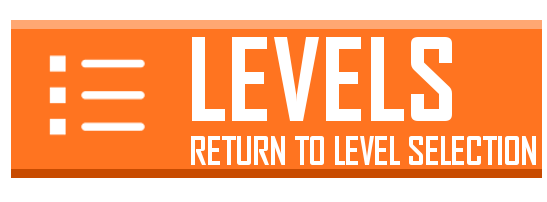
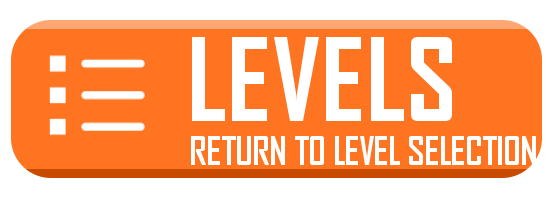
update buttons, bug fixes/tweaks

diff --git a/static/js/central_dogma_api.js b/static/js/central_dogma_api.js
@@ -5,10 +5,12 @@
     // **********************************************************************
     var cdapi = { };
     cdapi.version = '1.0.0';
+    const NO_BACKEND = true;
     const BASE_URL = 'http://localhost:5000';
     //const BASE_URL = '/api';
     let loggedIn = false;
     let currentSession = null;
+    var globalObject = null;
 
     /* Get the session id */
     function get(name) {
@@ -196,6 +198,103 @@
     cdapi.setCurrentSession = function (sess) {
         currentSession = sess;
     }
+
+    // ***************************************************************************************
+    // Josh's new functions
+    // ***************************************************************************************
+    cdapi.signin = async (username, sessionID) => {
+        if (NO_BACKEND) {
+            console.log('no backend -> dummy signin');
+            return new Promise(function(resolve, reject) {
+                loggedIn = true;
+                resolve(true);
+            });
+        }
+        return await postJSON(BASE_URL + "/user/signin",
+                              {"username": username, "session_id": sessionID}).then(data => {
+                                  if (data.status == "ok") {
+                                      window.localStorage.setItem("loginToken", data.access_token);
+                                      loggedIn = true;
+                                  }
+                                  return data;
+                              });
+    };
+    cdapi.signout = function(username, sessionID) {
+        return new Promise(function(resolve, reject) {
+            loggedIn = false;
+            resolve(true);
+        });
+    };
+    cdapi.isUserSignedIn = function(username, sessionID) {
+        return new Promise(function(resolve, reject) {
+            resolve(loggedIn);
+        });
+    };
+    /* Stores a new global object (see above) for the user. */
+    cdapi.storeNewGlobalVariable = async (userName, sessionID, global) => {
+        if (NO_BACKEND) {
+            console.log('no backend -> dummy store');
+            return new Promise(function(resolve, reject) {
+                globalObject = global;
+                resolve(true);
+            });
+        }
+        return await postJSONAuth(BASE_URL + "/user/storevar",
+                                  {"session_id": sessionID,
+                                   "global": global}).then(data => {
+                                      if (data.status == "ok") {
+                                          console.log('stored variable');
+                                      }
+                                  });
+    };
+
+    // returns object which is their stored global object
+    cdapi.getGlobalVariable = async (username, sessionid) => {
+        if (NO_BACKEND) {
+            console.log('no backend -> dummy retrieve');
+            return new Promise(function(resolve, reject) {
+                resolve(globalObject);
+            });
+        }
+        // TODO: backend connection
+    };
+
+    /* Gets a leaderboard based on given parameter for a session. */
+    cdapi.getTotalLeaderboard = async (sessionID, orderBy, numRows) => {
+        if (NO_BACKEND) {
+            console.log('no backend -> dummy leader board');
+            return new Promise(function(resolve, reject) {
+                var result = [ { userName: 'user1', value: 12345 }, { userName: 'user1', value: 12345 }, { userName: 'user1', value: 12345 }, { userName: 'user1', value: 12345 }, { userName: 'user1', value: 12345 }, { userName: 'user1', value: 12345 }, { userName: 'user1', value: 12345 }, { userName: 'user1', value: 12345 }, { userName: 'user1', value: 12345 }, { userName: 'user1', value: 12345 }, { userName: 'user1', value: 12345 }, { userName: 'user1', value: 12345 }, { userName: 'user1', value: 12345 }, { userName: 'user1', value: 12345 }, { userName: 'user1', value: 12345 }, { userName: 'user1', value: 12345 }, { userName: 'user1', value: 12345 }, { userName: 'user1', value: 12345 }, { userName: 'user1', value: 12345 }, { userName: 'user1', value: 12345 }, { userName: 'user1', value: 12345 }, { userName: 'user1', value: 12345 }, { userName: 'user1', value: 12345 }, { userName: 'user1', value: 12345 }, { userName: 'user1', value: 12345 }, { userName: 'user1', value: 12345 }, { userName: 'user1', value: 12345 }, { userName: 'user1', value: 12345 }, { userName: 'user1', value: 12345 }, { userName: 'user1', value: 12345 }, { userName: 'user1', value: 12345 }, { userName: 'user1', value: 12345 }, { userName: 'user1', value: 12345 }, { userName: 'user1', value: 12345 }, { userName: 'user1', value: 12345 }, { userName: 'user1', value: 12345 }, { userName: 'user1', value: 12345 }, { userName: 'user1', value: 12345 }, { userName: 'user1', value: 12345 }, { userName: 'user1', value: 12345 }, { userName: 'user1', value: 12345 }, { userName: 'user1', value: 12345 }, { userName: 'user1', value: 12345 }, { userName: 'user1', value: 12345 }, { userName: 'user1', value: 12345 }, { userName: 'user1', value: 12345 }, { userName: 'user1', value: 12345 }, { userName: 'user1', value: 12345 }, { userName: 'user1', value: 12345 }, { userName: 'user1', value: 12345 }, { userName: 'user1', value: 12345 }, { userName: 'user1', value: 12345 }, { userName: 'user1', value: 12345 }, { userName: 'user1', value: 12345 }, { userName: 'user1', value: 12345 }, { userName: 'user1', value: 12345 }, { userName: 'user1', value: 12345 }, { userName: 'user1', value: 12345 }, { userName: 'user1', value: 12345 }, { userName: 'user1', value: 12345 }, { userName: 'user1', value: 12345 }, { userName: 'user1', value: 12345 }, { userName: 'user1', value: 12345 }, { userName: 'user1', value: 12345 }, { userName: 'user1', value: 12345 }, { userName: 'user1', value: 12345 }, { userName: 'user1', value: 12345 }, { userName: 'user1', value: 12345 }, { userName: 'user1', value: 12345 }, { userName: 'user1', value: 12345 }, { userName: 'user1', value: 12345 }, { userName: 'user1', value: 12345 }, { userName: 'user1', value: 12345 }, { userName: 'user1', value: 12345 }, { userName: 'user1', value: 12345 }, { userName: 'user1', value: 12345 }, { userName: 'user1', value: 12345 }, { userName: 'user1', value: 12345 }, { userName: 'user1', value: 12345 }, { userName: 'user1', value: 12345 } ];
+                resolve(result);
+            });
+        }
+        return await postJSON(BASE_URL + "/total_leaderboard",
+                              {"session_id": sessionID, "orderby": orderBy,
+                               "numrows": numRows}).then(data => {
+                                  if (data.status == "ok") {
+                                  }
+                                  return data;
+                              });
+    };
+
+    /* Gets a leaderboard of scores for a level in a session. */
+    cdapi.getLevelLeaderboard = async (sessionID, level, numRows) => {
+        if (NO_BACKEND) {
+            console.log('no backend -> dummy level leader board');
+            return new Promise(function(resolve, reject) {
+                var result = [ { userName: 'user1', value: 12345 } ];
+                resolve(result);
+            });
+        }
+        return await postJSON(BASE_URL + "/level_leaderboard",
+                              {"session_id": sessionID, "level": level,
+                               "numrows": numRows}).then(data => {
+                                  if (data.status == "ok") {
+                                  }
+                                  return data;
+                              });
+    };
+
     // These lines needed to support a NPM/ES6 environment, the define() call
     // is to support RequireJS
     glob.cdapi = cdapi;

diff --git a/static/js/modules/scene/loginscreen.js b/static/js/modules/scene/loginscreen.js
@@ -24,7 +24,7 @@ class LoginScreen extends Phaser.Scene {
 
         // Background Color
         this.graphics = this.game.add.graphics();
-        this.graphics.fillStyle(0x1e1e1e, 1.0);
+        this.graphics.fillStyle(0xFFFFFF, 1.0);
         this.graphics.fillRect(0, 0, 360, 740);
 
     }
@@ -136,16 +136,6 @@ class LoginScreen extends Phaser.Scene {
 
             } else if (event.target.id == "login-button") {
                 event.preventDefault();
-                
-                // builds the username and lowercases it
-                let username = this.domOverlay.getChildByID("adjective-selector").value + "-" +
-                               this.domOverlay.getChildByID("color-selector").value + "-" +
-                               this.domOverlay.getChildByID("animal-selector").value + "-" +
-                               this.domOverlay.getChildByID("state-selector").value + "-" +
-                               this.domOverlay.getChildByID("grade-selector").value.replace("-", "_") +  "-" +
-                               this.domOverlay.getChildByID("gender-selector").value.replace(new RegExp(" ", 'g'), "_").replace("-", "_") + "-" +
-                               this.domOverlay.getChildByID("login-sessionName").value;
-                username = username.toLowerCase();
 
                 // just builds the animal name
                 let animalname = this.capitalizeFirstLetter(this.domOverlay.getChildByID("adjective-selector").value) + " " +
@@ -155,10 +145,33 @@ class LoginScreen extends Phaser.Scene {
                 // retrieves session name
                 let session = this.domOverlay.getChildByID("login-sessionName").value.replace(" ", "_");
 
+                // check if session is unset, and if so, set it to a default value (date + "No_Session_ID")
+                if (session == "") {
+                    let defaultSession = "no_session_id";
+
+                    let today = new Date();
+                    let dd = String(today.getDate()).padStart(2, '0');
+                    let mm = String(today.getMonth() + 1).padStart(2, '0'); //January is 0!
+                    let yyyy = today.getFullYear();
+
+                    today = mm + '_' + dd + '_' + yyyy;
+                    session = today + "_" + defaultSession;
+                    console.log(session);
+                }
+
+                // builds the username and lowercases it
+                let username = this.domOverlay.getChildByID("adjective-selector").value + "-" +
+                this.domOverlay.getChildByID("color-selector").value + "-" +
+                this.domOverlay.getChildByID("animal-selector").value + "-" +
+                this.domOverlay.getChildByID("state-selector").value + "-" +
+                this.domOverlay.getChildByID("grade-selector").value.replace("-", "_") +  "-" +
+                this.domOverlay.getChildByID("gender-selector").value.replace(new RegExp(" ", 'g'), "_").replace("-", "_") + "-" + session;
+                username = username.toLowerCase();                
+
                 // if any are invalid, tell the user
                 if (!username || !session || this.domOverlay.getChildByID("adjective-selector").value == "" ||
                     this.domOverlay.getChildByID("color-selector").value == "" || this.domOverlay.getChildByID("animal-selector").value == "") {
-                    this.domOverlay.getChildByID("login-feedback").textContent = "Please specify a valid username and session.";
+                    this.domOverlay.getChildByID("login-feedback").textContent = "Please specify a valid username.";
                     return;
                 }
 
@@ -265,7 +278,7 @@ class LoginScreen extends Phaser.Scene {
             let screenWidth = 360; // width of box to randomly spawn floaties
             let screenHeight = 720; // height of box to randomly spawn floaties
 
-            let myFloaty = this.floaty.create(screenWidth * Math.random(), screenHeight * Math.random(), 'fluff');
+            let myFloaty = this.floaty.create(screenWidth * Math.random(), screenHeight * Math.random(), 'fluff_dark');
             myFloaty.setScale(maxScale).setDepth(0.5).setAlpha(0.15);
 
             // Randoly sets speed to some percentage of its max speed, in a random direction

diff --git a/static/js/modules/scene/quiz.js b/static/js/modules/scene/quiz.js
@@ -44,19 +44,19 @@ class QuizScreen extends Phaser.Scene {
         if (level == 1) {
             this.quizQuestion = questions[0];
         } else if (level <= 2) {
-            this.quizQuestion = questions[Math.floor(2 * Math.random())];
+            this.quizQuestion = questions[Math.round(1 * Math.random()) + 1];
         } else if (level <= 4) {
-            this.quizQuestion = questions[Math.floor(5 *  Math.random())];
+            this.quizQuestion = questions[Math.round(4 *  Math.random()) + 1];
         } else if (level <= 6) {
-            this.quizQuestion = questions[Math.floor(8 *  Math.random())];
+            this.quizQuestion = questions[Math.round(7 *  Math.random()) + 1];
         } else if (level <= 11) {
-            this.quizQuestion = questions[Math.floor(12 *  Math.random())];
+            this.quizQuestion = questions[Math.round(11 *  Math.random()) + 1];
         } else if (level <= 15) {
-            this.quizQuestion = questions[Math.floor(18 *  Math.random())];
+            this.quizQuestion = questions[Math.round(17 *  Math.random()) + 1];
         } else if (level <= 17) {
-            this.quizQuestion = questions[Math.floor(21 *  Math.random())];
+            this.quizQuestion = questions[Math.round(20 *  Math.random()) + 1];
         } else if (level <= 19) {
-            this.quizQuestion = questions[Math.floor(25 *  Math.random())];
+            this.quizQuestion = questions[Math.round(24 *  Math.random()) + 1];
         } else {
             this.quizQuestion = questions[Math.floor(questions.length * Math.random())];
         }
@@ -95,6 +95,7 @@ class QuizScreen extends Phaser.Scene {
         // Initializing the quiz question object to store later for this question attempt
         this.questionResult = {
             timestamp: new Date().toString(),
+            score: this.points,
             question: this.quizQuestion,
             attempts: 1,
             questionNum: data.gameObj.GLOBAL.QUIZ_RESULTS.length + 1
@@ -140,6 +141,7 @@ class QuizScreen extends Phaser.Scene {
                 this.submitFeedback.setColor("#FF0000");
                 this.halvePointsAndDisplay();
                 this.questionResult.attempts++;
+                this.questionResult.score = Math.floor(this.questionResult.score / 2);
     
                 for (let i = 0; i < this.choices.length; i++) { 
                     
@@ -161,7 +163,7 @@ class QuizScreen extends Phaser.Scene {
         this.submitFeedback.setAlpha(0);
         this.choiceBox.setAlpha(0);
         this.actionFeedback.setAlpha(0);
-        let delay = 3000;
+        let delay = 1500;
 
         // Animate questionbox to final position after small delay
         setTimeout(() => {

diff --git a/static/js/modules/scene/logoscreen.js b/static/js/modules/scene/logoscreen.js
@@ -25,12 +25,12 @@ class LogoScreen extends Phaser.Scene {
 
         // Background color
         this.graphics = this.game.add.graphics();
-        this.graphics.fillStyle(0x1e1e1e, 1.0);
+        this.graphics.fillStyle(0xFFFFFF, 1.0);
         this.graphics.fillRect(0, 0, 360, 740);
         
 
         // Intro title screen ISB logo
-        let isblogo = this.game.add.image(180, 320, "logo_isb_white").setScale(0.5).setDepth(10);
+        let isblogo = this.game.add.image(180, 320, "logo_isb").setScale(0.5).setDepth(10);
 
         // Intro dogma logo
         let dogmaLogo = this.game.add.sprite(185, 280, "logo_dogma_intro", 0).setScale(1.4).setDepth(10);
@@ -159,7 +159,7 @@ class LogoScreen extends Phaser.Scene {
             let screenWidth = 360; // width of box to randomly spawn floaties
             let screenHeight = 720; // height of box to randomly spawn floaties
 
-            let myFloaty = this.floaty.create(screenWidth * Math.random(), screenHeight * Math.random(), 'fluff');
+            let myFloaty = this.floaty.create(screenWidth * Math.random(), screenHeight * Math.random(), 'fluff_dark');
             myFloaty.setScale(maxScale).setDepth(0.2).setAlpha(0.15);
 
             // Randoly sets speed to some percentage of its max speed, in a random direction

diff --git a/static/js/modules/game.js b/static/js/modules/game.js
@@ -45,7 +45,7 @@ class Game {
         /*
             {
                 type: String, // the type of question (either "drag and drop" or "multiple choice")
-                worth: Int, // How much was this quiz question worth
+                score: Int, // How much was this quiz question worth
                 prompt: String, // The question prompt
                 options: Array of Strings, // all the possible choices
                 correct: Int, // The index in the options array that is the correct answer
@@ -60,6 +60,7 @@ class Game {
                 process: String, // what process of DNA replication was being played?
                 lvlType: String, // what type of level was this ("dna_replication" vs "codon_transcription"
                 speed: Int, // speed of the level,
+                score: Int, // the score they got for this level
                 rotateNT: Boolean, // was this level a rotational level?
                 missed: Int, // how many objects were missed
                 correct: Int, // how many objects were correct

diff --git a/static/js/modules/scene/levelcomplete.js b/static/js/modules/scene/levelcomplete.js
@@ -146,6 +146,7 @@ class LevelComplete extends Phaser.Scene {
                                             process: levelData.process, // what process of DNA replication was being played?
                                             lvlType: that.lvlType, // what type of level was this ("dna_replication" vs "codon_transcription"
                                             speed: levelData.speed, // speed of the level,
+                                            score: that.score, // the score the player earned during the level
                                             rotateNT: levelData.rotateNT, // was this level a rotational level?
                                             missed: missingCount, // how many objects were missed
                                             correct: data.nucleotides.length - missingCount - mutationCount, // how many objects were correct

diff --git a/static/html/login.html b/static/html/login.html
@@ -1,7 +1,7 @@
 <style>
   .login {
     background: #006FFF;
-    border: 7px solid white;
+    border: 5px solid #151515;
     border-radius: 10px;
     width: 300px;
     padding-bottom: 10px;
